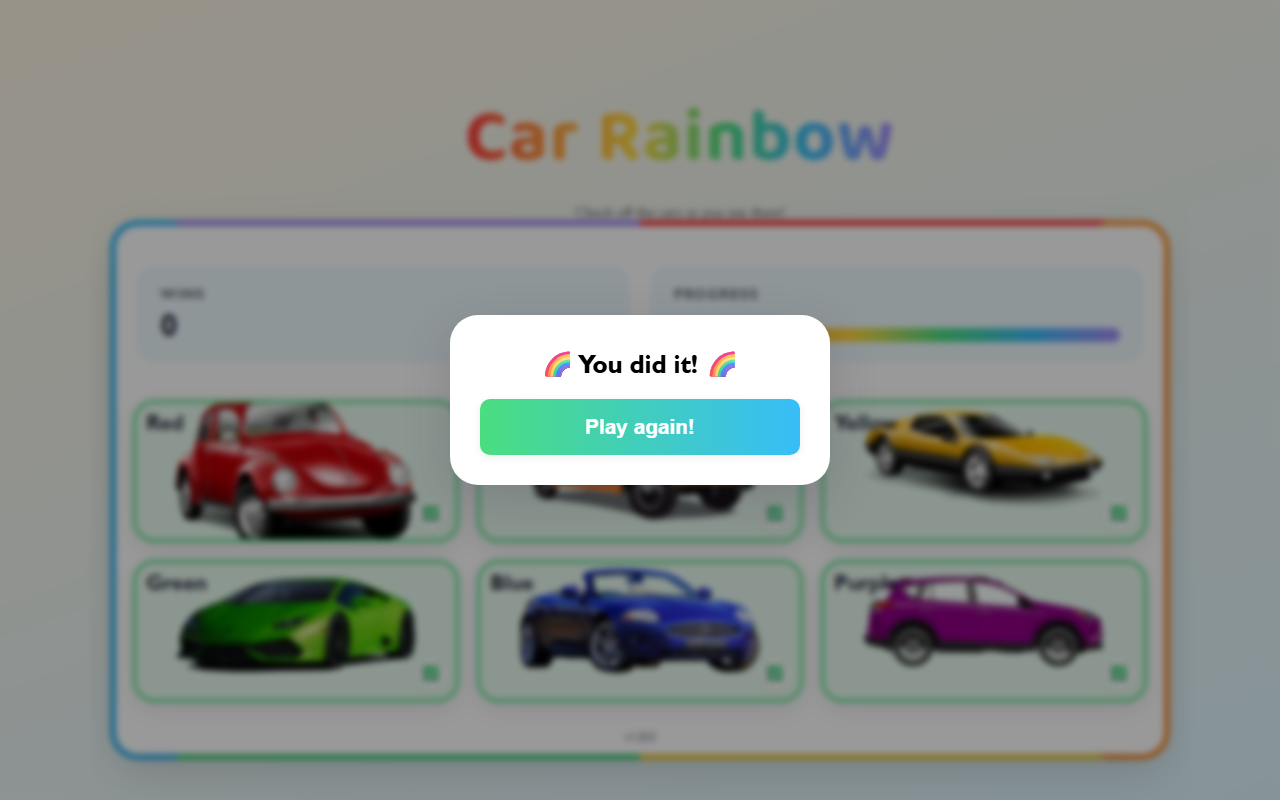
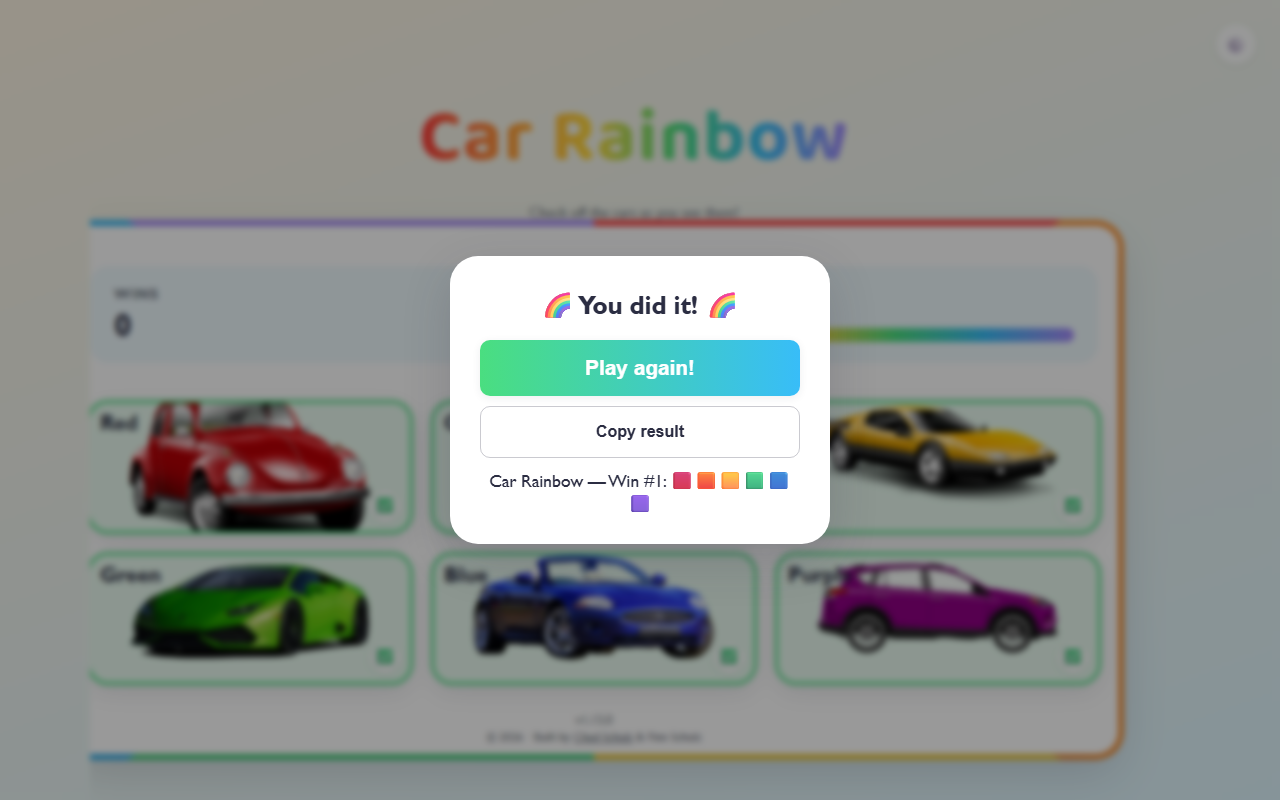
v1.14.0 — Shareable results (#20)

Pull request: v1.14.0 — Shareable results

Changed region(s): [[0.0625, 0.25, 0.9375, 0.9688], [0.3125, 0.125, 0.7188, 0.2188]]

diff --git a/src/js/CarRainbow.test.jsx b/src/js/CarRainbow.test.jsx
@@ -81,6 +81,35 @@ describe('CarRainbow', () => {
         expect(screen.getByText('🌈 You did it! 🌈')).toBeInTheDocument();
     });
 
+    it('copies an emoji-grid result encoding the find order to the clipboard', async () => {
+        const user = userEvent.setup();
+        const writeText = vi.spyOn(navigator.clipboard, 'writeText').mockResolvedValue(undefined);
+        render(<CarRainbow />);
+
+        await findAllCars(user);
+        await user.click(screen.getByRole('button', { name: 'Copy result' }));
+
+        expect(writeText).toHaveBeenLastCalledWith('Car Rainbow — Win #1: 🟥🟧🟨🟩🟦🟪');
+        expect(await screen.findByRole('button', { name: 'Copied!' })).toBeInTheDocument();
+    });
+
+    it('opens the native share sheet instead of copying when the Web Share API is available', async () => {
+        const user = userEvent.setup();
+        const share = vi.fn().mockResolvedValue(undefined);
+        Object.defineProperty(navigator, 'share', { value: share, configurable: true });
+
+        try {
+            render(<CarRainbow />);
+            await findAllCars(user);
+            await user.click(screen.getByRole('button', { name: 'Share result' }));
+
+            expect(share).toHaveBeenCalledWith({ text: 'Car Rainbow — Win #1: 🟥🟧🟨🟩🟦🟪' });
+            expect(screen.queryByRole('button', { name: 'Copied!' })).not.toBeInTheDocument();
+        } finally {
+            delete navigator.share;
+        }
+    });
+
     it('resets the board and increments wins on replay', async () => {
         const user = userEvent.setup();
         render(<CarRainbow />);

diff --git a/src/js/Replay.jsx b/src/js/Replay.jsx
@@ -1,6 +1,26 @@
-import React, { forwardRef } from 'react';
+import React, { forwardRef, useState } from 'react';
+
+const COPIED_MESSAGE_DURATION = 2000;
 
 const Replay = forwardRef(function Replay(props, ref) {
+    const [copied, setCopied] = useState(false);
+    const canShare = typeof navigator.share === 'function';
+
+    async function shareResult() {
+        if (canShare) {
+            try {
+                await navigator.share({ text: props.shareText });
+            } catch (error) {
+                // user dismissed the share sheet — nothing to report
+            }
+            return;
+        }
+
+        await navigator.clipboard.writeText(props.shareText);
+        setCopied(true);
+        setTimeout(() => setCopied(false), COPIED_MESSAGE_DURATION);
+    }
+
     return (
         <dialog ref={ref} className="dialog" aria-labelledby="replay-title">
             <h3 id="replay-title" className="dialog__title">
@@ -10,6 +30,12 @@ const Replay = forwardRef(function Replay(props, ref) {
                 <button type="button" className="button" onClick={() => props.replayClick()}>
                     Play again!
                 </button>
+                <button type="button" className="button button--ghost" onClick={shareResult}>
+                    {canShare ? 'Share result' : copied ? 'Copied!' : 'Copy result'}
+                </button>
+                <p className="dialog__share-preview" aria-live="polite">
+                    {props.shareText}
+                </p>
             </div>
         </dialog>
     );

diff --git a/src/js/colors.js b/src/js/colors.js
@@ -1,19 +1,19 @@
 const RAINBOW_COLORS = [
-    { id: 'red', name: 'Red', hex: '#ff3b3b' },
-    { id: 'orange', name: 'Orange', hex: '#ff9a3b' },
-    { id: 'yellow', name: 'Yellow', hex: '#ffd93b' },
-    { id: 'green', name: 'Green', hex: '#4ade80' },
-    { id: 'blue', name: 'Blue', hex: '#38bdf8' },
-    { id: 'purple', name: 'Purple', hex: '#a78bfa' },
+    { id: 'red', name: 'Red', hex: '#ff3b3b', emoji: '🟥' },
+    { id: 'orange', name: 'Orange', hex: '#ff9a3b', emoji: '🟧' },
+    { id: 'yellow', name: 'Yellow', hex: '#ffd93b', emoji: '🟨' },
+    { id: 'green', name: 'Green', hex: '#4ade80', emoji: '🟩' },
+    { id: 'blue', name: 'Blue', hex: '#38bdf8', emoji: '🟦' },
+    { id: 'purple', name: 'Purple', hex: '#a78bfa', emoji: '🟪' },
 ];
 
 export const EXTENDED_COLORS = [
-    { id: 'black', name: 'Black', hex: '#1c1c24' },
-    { id: 'white', name: 'White', hex: '#f4f4f6' },
-    { id: 'brown', name: 'Brown', hex: '#8a5a35' },
-    { id: 'pink', name: 'Pink', hex: '#ff6fb0' },
-    { id: 'silver', name: 'Silver', hex: '#c4c8d0' },
-    { id: 'pattern', name: 'Pattern', hex: '#ff3bd4' },
+    { id: 'black', name: 'Black', hex: '#1c1c24', emoji: '⬛' },
+    { id: 'white', name: 'White', hex: '#f4f4f6', emoji: '⬜' },
+    { id: 'brown', name: 'Brown', hex: '#8a5a35', emoji: '🟫' },
+    { id: 'pink', name: 'Pink', hex: '#ff6fb0', emoji: '🩷' },
+    { id: 'silver', name: 'Silver', hex: '#c4c8d0', emoji: '🔘' },
+    { id: 'pattern', name: 'Pattern', hex: '#ff3bd4', emoji: '🏁' },
 ];
 
 export default RAINBOW_COLORS;

diff --git a/src/js/CarRainbow.jsx b/src/js/CarRainbow.jsx
@@ -6,6 +6,7 @@ import GameStatus from './GameStatus';
 import Popper from './Popper';
 import Replay from './Replay';
 import Settings from './Settings';
+import { buildShareText } from './share';
 import { playCheckSound, playReplaySound, playWinSong } from './sound';
 
 const WINS_STORAGE_KEY = 'car-rainbow-wins';
@@ -15,13 +16,14 @@ const DIFFICULTY_STORAGE_KEY = 'car-rainbow-difficulty';
 
 function buildColors(extendedColors) {
     const palette = extendedColors ? [...RAINBOW_COLORS, ...EXTENDED_COLORS] : RAINBOW_COLORS;
-    return palette.map(({ id, name, hex }) => ({ id, name, hex, active: false }));
+    return palette.map(({ id, name, hex, emoji }) => ({ id, name, hex, emoji, active: false }));
 }
 
 function createGameData(extendedColors) {
     return {
         wins: Number(localStorage.getItem(WINS_STORAGE_KEY)) || 0,
         colors: buildColors(extendedColors),
+        foundOrder: [],
     };
 }
 
@@ -69,6 +71,7 @@ function CarRainbow() {
         setData((previousData) => ({
             wins: previousData.wins + 1,
             colors: previousData.colors.map((color) => ({ ...color, active: false })),
+            foundOrder: [],
         }));
     }
 
@@ -81,7 +84,7 @@ function CarRainbow() {
         localStorage.setItem(EXTENDED_COLORS_STORAGE_KEY, String(enabled));
         setShowPopper(false);
         replayRef.current?.close();
-        setData((previousData) => ({ wins: previousData.wins, colors: buildColors(enabled) }));
+        setData((previousData) => ({ wins: previousData.wins, colors: buildColors(enabled), foundOrder: [] }));
     }
 
     function changeDifficulty(value) {
@@ -89,7 +92,7 @@ function CarRainbow() {
         localStorage.setItem(DIFFICULTY_STORAGE_KEY, value);
         setShowPopper(false);
         replayRef.current?.close();
-        setData((previousData) => ({ ...previousData, colors: previousData.colors.map((color) => ({ ...color, active: false })) }));
+        setData((previousData) => ({ ...previousData, colors: previousData.colors.map((color) => ({ ...color, active: false })), foundOrder: [] }));
     }
 
     function carClick(index) {
@@ -99,6 +102,7 @@ function CarRainbow() {
         }
 
         const updatedColors = data.colors.map((color, i) => (i === index ? { ...color, active: !color.active } : color));
+        const updatedFoundOrder = updatedColors[index].active ? [...data.foundOrder, index] : data.foundOrder.filter((i) => i !== index);
 
         playCheckSound(updatedColors[index].active);
 
@@ -108,8 +112,10 @@ function CarRainbow() {
             replayRef.current?.showModal();
         }
 
-        setData({ ...data, colors: updatedColors });
+        setData({ ...data, colors: updatedColors, foundOrder: updatedFoundOrder });
     }
+
+    const shareText = buildShareText(data.wins + 1, data.colors, data.foundOrder);
 
     return (
         <div className="app-frame" style={{ '--app-frame-gradient': frameGradient }}>
@@ -126,7 +132,7 @@ function CarRainbow() {
             <div className="app-card">
                 <GameStatus wins={data.wins} activeCount={activeCount} totalCount={data.colors.length} />
                 <div className={`car-rainbow ${extendedColors ? 'car-rainbow--extended' : ''}`}>{cars}</div>
-                <Replay ref={replayRef} replayClick={replayClick} />
+                <Replay ref={replayRef} replayClick={replayClick} shareText={shareText} />
                 <Popper active={showPopper} />
                 <Footer />
             </div>

diff --git a/src/js/share.test.js b/src/js/share.test.js
@@ -1,0 +1,16 @@
+import { buildShareText } from './share';
+import RAINBOW_COLORS from './colors';
+
+describe('buildShareText', () => {
+    it('encodes the colors in find-order as an emoji grid alongside the win number', () => {
+        const text = buildShareText(3, RAINBOW_COLORS, [2, 0, 4]);
+
+        expect(text).toBe('Car Rainbow — Win #3: 🟨🟥🟦');
+    });
+
+    it('produces an empty grid when nothing has been found yet', () => {
+        const text = buildShareText(1, RAINBOW_COLORS, []);
+
+        expect(text).toBe('Car Rainbow — Win #1: ');
+    });
+});

diff --git a/src/scss/_dialog.scss b/src/scss/_dialog.scss
@@ -26,6 +26,13 @@
 
 .dialog__options {
     display: grid;
+    gap: $padding-mobile * 0.5;
     grid-template-columns: 1fr;
     margin-top: $padding-mobile;
+}
+
+.dialog__share-preview {
+    font-size: 1.1em;
+    margin: 0;
+    text-align: center;
 }

diff --git a/src/js/share.js b/src/js/share.js
@@ -1,0 +1,4 @@
+export function buildShareText(winNumber, colors, foundOrder) {
+    const grid = foundOrder.map((index) => colors[index].emoji).join('');
+    return `Car Rainbow — Win #${winNumber}: ${grid}`;
+}

diff --git a/tests/visual.spec.js b/tests/visual.spec.js
@@ -18,7 +18,9 @@ test.describe('Car Rainbow visual regression', () => {
         }
 
         await expect(page.getByRole('dialog')).toBeVisible();
-        await expect(page).toHaveScreenshot('win-dialog.png', { animations: 'disabled' });
+        // The win dialog now carries more text (share preview + button label), which makes it more
+        // sensitive to cross-machine font-rendering differences than the global threshold allows.
+        await expect(page).toHaveScreenshot('win-dialog.png', { animations: 'disabled', maxDiffPixelRatio: 0.08 });
     });
 
     test('settings modal', async ({ page }) => {

diff --git a/BACKLOG.md b/BACKLOG.md
@@ -19,7 +19,6 @@ _No open bugs._
 | Title | Effort | Value |
 |-------|--------|-------|
 | [Parallax scenery background](#parallax-scenery-background) | M | M |
-| [Shareable results](#shareable-results) | M | M |
 | [Localization](#localization) | L | M |
 
 ## Open
@@ -36,12 +35,6 @@ _No open bugs._
 **Why** — only Prettier formatting is configured today; ESLint with `eslint-plugin-react`/`eslint-plugin-react-hooks` would catch real bugs — like the direct state mutation in `carClick`/`replayClick` — automatically, before they ship
 **Notes:** wire into an `npm run lint` script and CI; pair with `eslint-config-prettier` to avoid rule conflicts with the existing `.prettierrc`
 
-### Outdated browserslist data
-
-**Type:** improvement
-**Why** — the dev server logs a warning that `caniuse-lite` (used by Browserslist, which underpins Parcel's CSS/JS autoprefixing and target resolution) is outdated, which can cause builds to target stale browser versions
-**Notes:** run `npx update-browserslist-db@latest` to refresh the `caniuse-lite` data; consider documenting this as a periodic maintenance task
-
 ### No offline/PWA support
 
 **Type:** improvement
@@ -53,12 +46,6 @@ _No open bugs._
 **Type:** feature
 **Why** — the original "sound effects / animations" idea is now shipped (check/replay/win sounds and the rainbow progress border in v1.3.0, the staggered "drive-in" car entrance animation in v1.5.0); the one piece of that brainstorm still open is a subtly scrolling road/skyline backdrop, which would add depth and atmosphere to the play area without touching game mechanics
 **Notes:** needs new art assets (road/skyline layers); animate via CSS `background-position` keyframes or layered `transform: translateX`; respect `prefers-reduced-motion` like the existing `car-drive-in` animation does; see the brainstorm entry below for the original framing alongside the now-shipped "drive-in" half
-
-### Shareable results
-
-**Type:** feature
-**Why** — there's currently no way for a player to show off a win beyond the in-app dialog; a shareable result (emoji grid, snapshot image, or link) would encourage social sharing and return visits
-**Notes:** see the brainstorm's "daily challenge" emoji-grid idea and "snapshot/share card" canvas-rendering idea below for two concrete directions
 
 ### Localization
 
@@ -81,4 +68,4 @@ A fresh pass looking for ideas that build on what's already shipped (the card re
 
 ### Craziest idea: the One Big Rainbow
 
-A real-time, planet-wide shared board: every visitor across the globe sees the *same* six cars, and the instant *anyone, anywhere* finds one, it lights up for *everyone* simultaneously (via a lightweight WebSocket/pub-sub backend). Finishing the rainbow becomes a collective act — thousands of strangers unknowingly cooperating to complete one giant, perpetually-resetting rainbow together, with a live counter showing how many times humanity has finished it. Equal parts beautiful and unhinged: it turns a 30-second solo diversion into an ambient, ongoing piece of internet performance art that nobody agreed to participate in.
+A real-time, planet-wide shared board: every visitor across the globe sees the _same_ six cars, and the instant _anyone, anywhere_ finds one, it lights up for _everyone_ simultaneously (via a lightweight WebSocket/pub-sub backend). Finishing the rainbow becomes a collective act — thousands of strangers unknowingly cooperating to complete one giant, perpetually-resetting rainbow together, with a live counter showing how many times humanity has finished it. Equal parts beautiful and unhinged: it turns a 30-second solo diversion into an ambient, ongoing piece of internet performance art that nobody agreed to participate in.

diff --git a/CHANGELOG.md b/CHANGELOG.md
@@ -2,6 +2,12 @@
 
 All notable changes to Car Rainbow are documented here. Versions follow [Semantic Versioning](https://semver.org/); dates reflect when each change landed on `main`.
 
+## [1.14.0] - 2026-06-07
+
+### Added
+
+- **Shareable results.** Win results can now be shared via the native OS share sheet on mobile (iOS Safari, Chrome Android, etc. via the Web Share API) or copied to the clipboard on desktop, displaying an emoji-grid encoding the find-order and win counter (e.g. "Car Rainbow — Win #1: 🟥🟧🟨🟩🟦🟪"); added emoji fields to color definitions in `src/js/colors.js`, tracking of find-order in `CarRainbow.jsx` state, a new `buildShareText` helper in `src/js/share.js`, and a "Share/Copy result" button in the win dialog (`Replay.jsx`)
+
 ## [1.13.0] - 2026-06-07
 
 ### Added